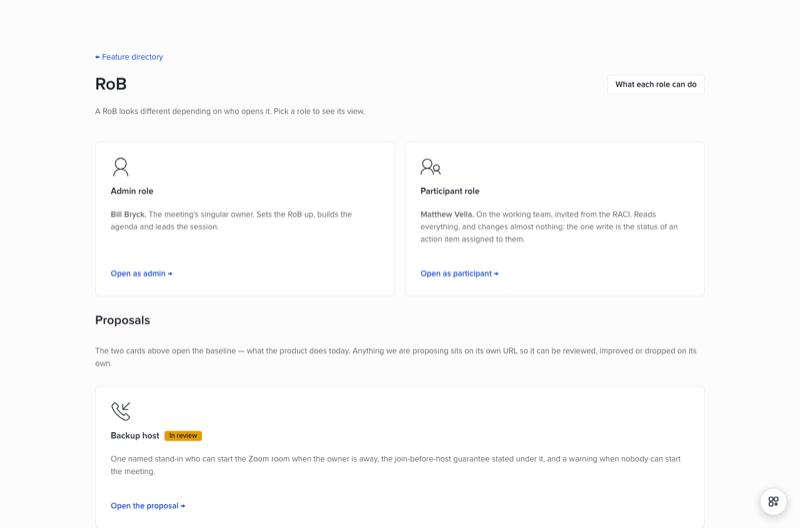
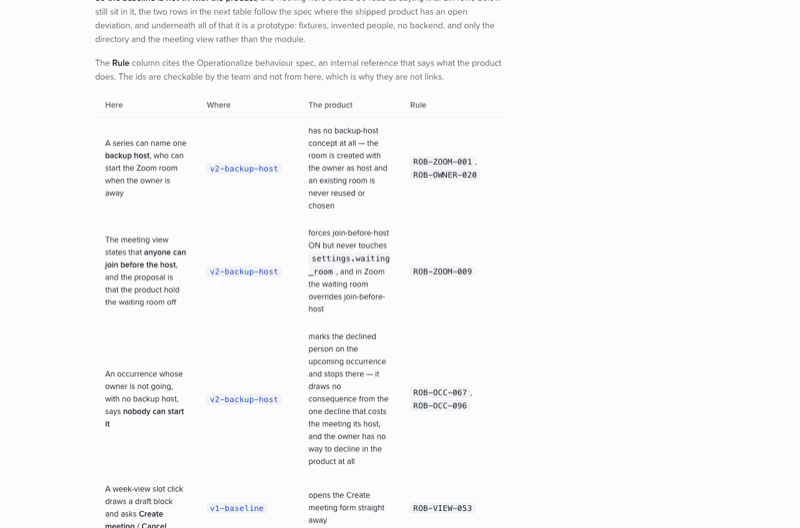
rob: the Where column is the way into a proposal
Drops the Proposals card from the role chooser and makes the departures
table's Where cells links instead. The card listed what the table
already described, so the same proposal was announced in two places and
would have gone stale in one of them.

Each row now opens the prototype it describes -- three to
v2-backup-host, six to v1-baseline.

One fix the first attempt needed: a code span sets its own colour, so
`[`v2-backup-host`](...)` rendered as a link that did not look like
one. changelog.css now has the code inherit the anchor's colour and
underline on hover, which is the whole reason the cells read as
clickable rather than as more monospace.

The history entry's shot showed the card that no longer exists.
Re-shot on the table, and the entry says the card was built and taken
out rather than pretending it never was.

diff --git a/rob/roles.html b/rob/roles.html
@@ -4472,38 +4472,6 @@ a.breadcrumb:hover { text-decoration: underline; text-underline-offset: 3px; }
 
     </div>
 
-    <!-- Proposals do not land in the baseline. Each one is a version folder
-         beside it (versions.json), so it can be handed to a reviewer on its
-         own URL, improved in place, or deleted without touching the baseline.
-         Inside a version, ?versions=1 switches between them and ?changes=1
-         outlines what that version changed. -->
-    <section class="stack" style="gap: var(--spacing-3)">
-      <h2 class="h2">Proposals</h2>
-      <p class="body-sm">
-        The two cards above open the baseline &mdash; the closest this prototype gets
-        to the product.
-        Anything we are proposing sits on its own URL so it can be reviewed,
-        improved or dropped on its own.
-      </p>
-      <div class="roles">
-        <a class="card role" href="./v2-backup-host/">
-          <svg class="icon role-icon"><use href="#i-switch"/></svg>
-          <div class="stack" style="gap: var(--spacing-1)">
-            <div class="role-head">
-              <h2 class="h4">Backup host</h2>
-              <span class="tag tag-warning">In review</span>
-            </div>
-            <p class="body-sm" style="color: var(--color-text-muted)">
-              One named stand-in who can start the Zoom room when the owner is away,
-              the join-before-host guarantee stated under it, and a warning when
-              nobody can start the meeting.
-            </p>
-          </div>
-          <div class="role-foot"><span class="role-go">Open the proposal &rarr;</span></div>
-        </a>
-      </div>
-    </section>
-
     <!-- The changelog itself, not a link to it. Once you have picked a role
          the next useful thing on this page is what was decided and why, and a
          page that merely links to its own history mostly gets skipped. Same

diff --git a/rob/changelog.css b/rob/changelog.css
@@ -59,6 +59,10 @@
 .cl-doc strong { color: var(--color-text); font-weight: var(--font-weight-semibold); }
 .cl-doc a { color: var(--color-text-link); text-decoration: none; }
 .cl-doc a:hover { text-decoration: underline; text-underline-offset: 3px; }
+/* A code span sets its own colour, so `[`v2-backup-host`](…)` renders as a
+   link that does not look like one. Inherit instead, and keep the chip. */
+.cl-doc a code { color: inherit; }
+.cl-doc a:hover code { text-decoration: underline; text-underline-offset: 3px; }
 
 /* The status row sits tight under its heading — it qualifies that entry,
    so a paragraph's worth of air between them would read as a new thought. */

diff --git a/rob/CHANGELOG.md b/rob/CHANGELOG.md
@@ -25,7 +25,8 @@ the rule is wrong. Each one is a proposal, and needs saying out loud when it
 goes to review.
 
 Since 2026-11-20 a proposal lives in its own version folder rather than in the
-baseline, so **Where** says which URL to open. Rows still reading
+baseline, so **Where** is the way in — each one opens the prototype that row
+describes. Rows still reading
 `v1-baseline` are the ones not yet moved out — they are the honest remainder
 of a baseline that used to carry everything.
 
@@ -41,15 +42,15 @@ and not from here, which is why they are not links.
 
 | Here | Where | The product | Rule |
 |---|---|---|---|
-| A series can name one **backup host**, who can start the Zoom room when the owner is away | `v2-backup-host` | has no backup-host concept at all — the room is created with the owner as host and an existing room is never reused or chosen | `ROB-ZOOM-001`, `ROB-OWNER-020` |
-| The meeting view states that **anyone can join before the host**, and the proposal is that the product hold the waiting room off | `v2-backup-host` | forces join-before-host ON but never touches `settings.waiting_room`, and in Zoom the waiting room overrides join-before-host | `ROB-ZOOM-009` |
-| An occurrence whose owner is not going, with no backup host, says **nobody can start it** | `v2-backup-host` | marks the declined person on the upcoming occurrence and stops there — it draws no consequence from the one decline that costs the meeting its host, and the owner has no way to decline in the product at all | `ROB-OCC-067`, `ROB-OCC-096` |
-| A week-view slot click draws a draft block and asks **Create meeting / Cancel** | `v1-baseline` | opens the Create meeting form straight away | `ROB-VIEW-053` |
-| Recurrence offers weekly and bi-weekly, with monthly marked approval-only | `v1-baseline` | defaults to Every weekday, and offers daily, custom and the rest | `ROB-SCHED-002`, `-004` |
-| Every filter is single-select | `v1-baseline` | **all five** are multi-select — Team, Meeting owners, Attendee, Divisions, Slack channels — and a tag lists the chosen names, `Divisions: <names>` | `ROB-VIEW-019`, `-025`, `-026`, `-027` |
-| Clicking the chosen option again clears that filter | `v1-baseline` | nothing to clear this way: you untick one of several, and the only "none" is having ticked none | `ROB-VIEW-019` |
-| Action items carry threaded comments | `v1-baseline` | has none, and not by omission — notes shipped in June 2026 and were removed within a week, data dropped with them | `ROB-ACTION-008` |
-| Clicking a past slot in the week view says why nothing happened | `v1-baseline` | nothing happens — the slot has no pointer and no handler, and the click is swallowed | `ROB-VIEW-053` |
+| A series can name one **backup host**, who can start the Zoom room when the owner is away | [`v2-backup-host`](./v2-backup-host/) | has no backup-host concept at all — the room is created with the owner as host and an existing room is never reused or chosen | `ROB-ZOOM-001`, `ROB-OWNER-020` |
+| The meeting view states that **anyone can join before the host**, and the proposal is that the product hold the waiting room off | [`v2-backup-host`](./v2-backup-host/) | forces join-before-host ON but never touches `settings.waiting_room`, and in Zoom the waiting room overrides join-before-host | `ROB-ZOOM-009` |
+| An occurrence whose owner is not going, with no backup host, says **nobody can start it** | [`v2-backup-host`](./v2-backup-host/) | marks the declined person on the upcoming occurrence and stops there — it draws no consequence from the one decline that costs the meeting its host, and the owner has no way to decline in the product at all | `ROB-OCC-067`, `ROB-OCC-096` |
+| A week-view slot click draws a draft block and asks **Create meeting / Cancel** | [`v1-baseline`](./v1-baseline/) | opens the Create meeting form straight away | `ROB-VIEW-053` |
+| Recurrence offers weekly and bi-weekly, with monthly marked approval-only | [`v1-baseline`](./v1-baseline/) | defaults to Every weekday, and offers daily, custom and the rest | `ROB-SCHED-002`, `-004` |
+| Every filter is single-select | [`v1-baseline`](./v1-baseline/) | **all five** are multi-select — Team, Meeting owners, Attendee, Divisions, Slack channels — and a tag lists the chosen names, `Divisions: <names>` | `ROB-VIEW-019`, `-025`, `-026`, `-027` |
+| Clicking the chosen option again clears that filter | [`v1-baseline`](./v1-baseline/) | nothing to clear this way: you untick one of several, and the only "none" is having ticked none | `ROB-VIEW-019` |
+| Action items carry threaded comments | [`v1-baseline`](./v1-baseline/) | has none, and not by omission — notes shipped in June 2026 and were removed within a week, data dropped with them | `ROB-ACTION-008` |
+| Clicking a past slot in the week view says why nothing happened | [`v1-baseline`](./v1-baseline/) | nothing happens — the slot has no pointer and no handler, and the click is swallowed | `ROB-VIEW-053` |
 
 **We follow the spec where the product does not.** Not proposals: the rule is
 already the rule, and the shipped code has an open deviation from it. Built to
@@ -141,7 +142,7 @@ to the page, and a hash survives both it and Vercel.
 
 **Status** · Structural — no product decision changed, but where each one lives did, and the departures table now says which URL.
 
-![The role chooser: Admin and Participant cards opening the baseline, and below them a Proposals section with the backup host on its own card, tagged In review.](_shots/2026-11-20-proposals-split.png)
+![The departures table with a Where column: three rows linking to v2-backup-host and the rest to v1-baseline, each one opening the prototype that row describes.](_shots/2026-11-20-proposals-split.png)
 
 `rob/` was described as production-faithful while rendering six changes the
 product has never seen. A proposal and the thing it is a proposal *about* were
@@ -152,8 +153,11 @@ So the family splits. `v1-baseline` is the closest thing to the product this
 repo holds; a proposal branches off it into its own folder, listed in
 `versions.json`, and
 `rob/` is a redirect that carries the query and hash so every existing link
-still lands. The role chooser gained a **Proposals** section, which is where a
-reviewer picks one up.
+still lands. [Where it departs](#where-it-departs-from-the-product) gained a
+**Where** column, and that is how a reviewer picks one up: the row that
+describes a proposal is also the link that opens it. A separate card listing
+the proposals was built first and taken out again — it put the same thing in
+two places, and the table was the one already saying what each proposal is.
 
 **This reverses a rule the file used to state**, and the reversal is narrower
 than it looks. "A variant is a URL, not a copy" was written after `action-items`
